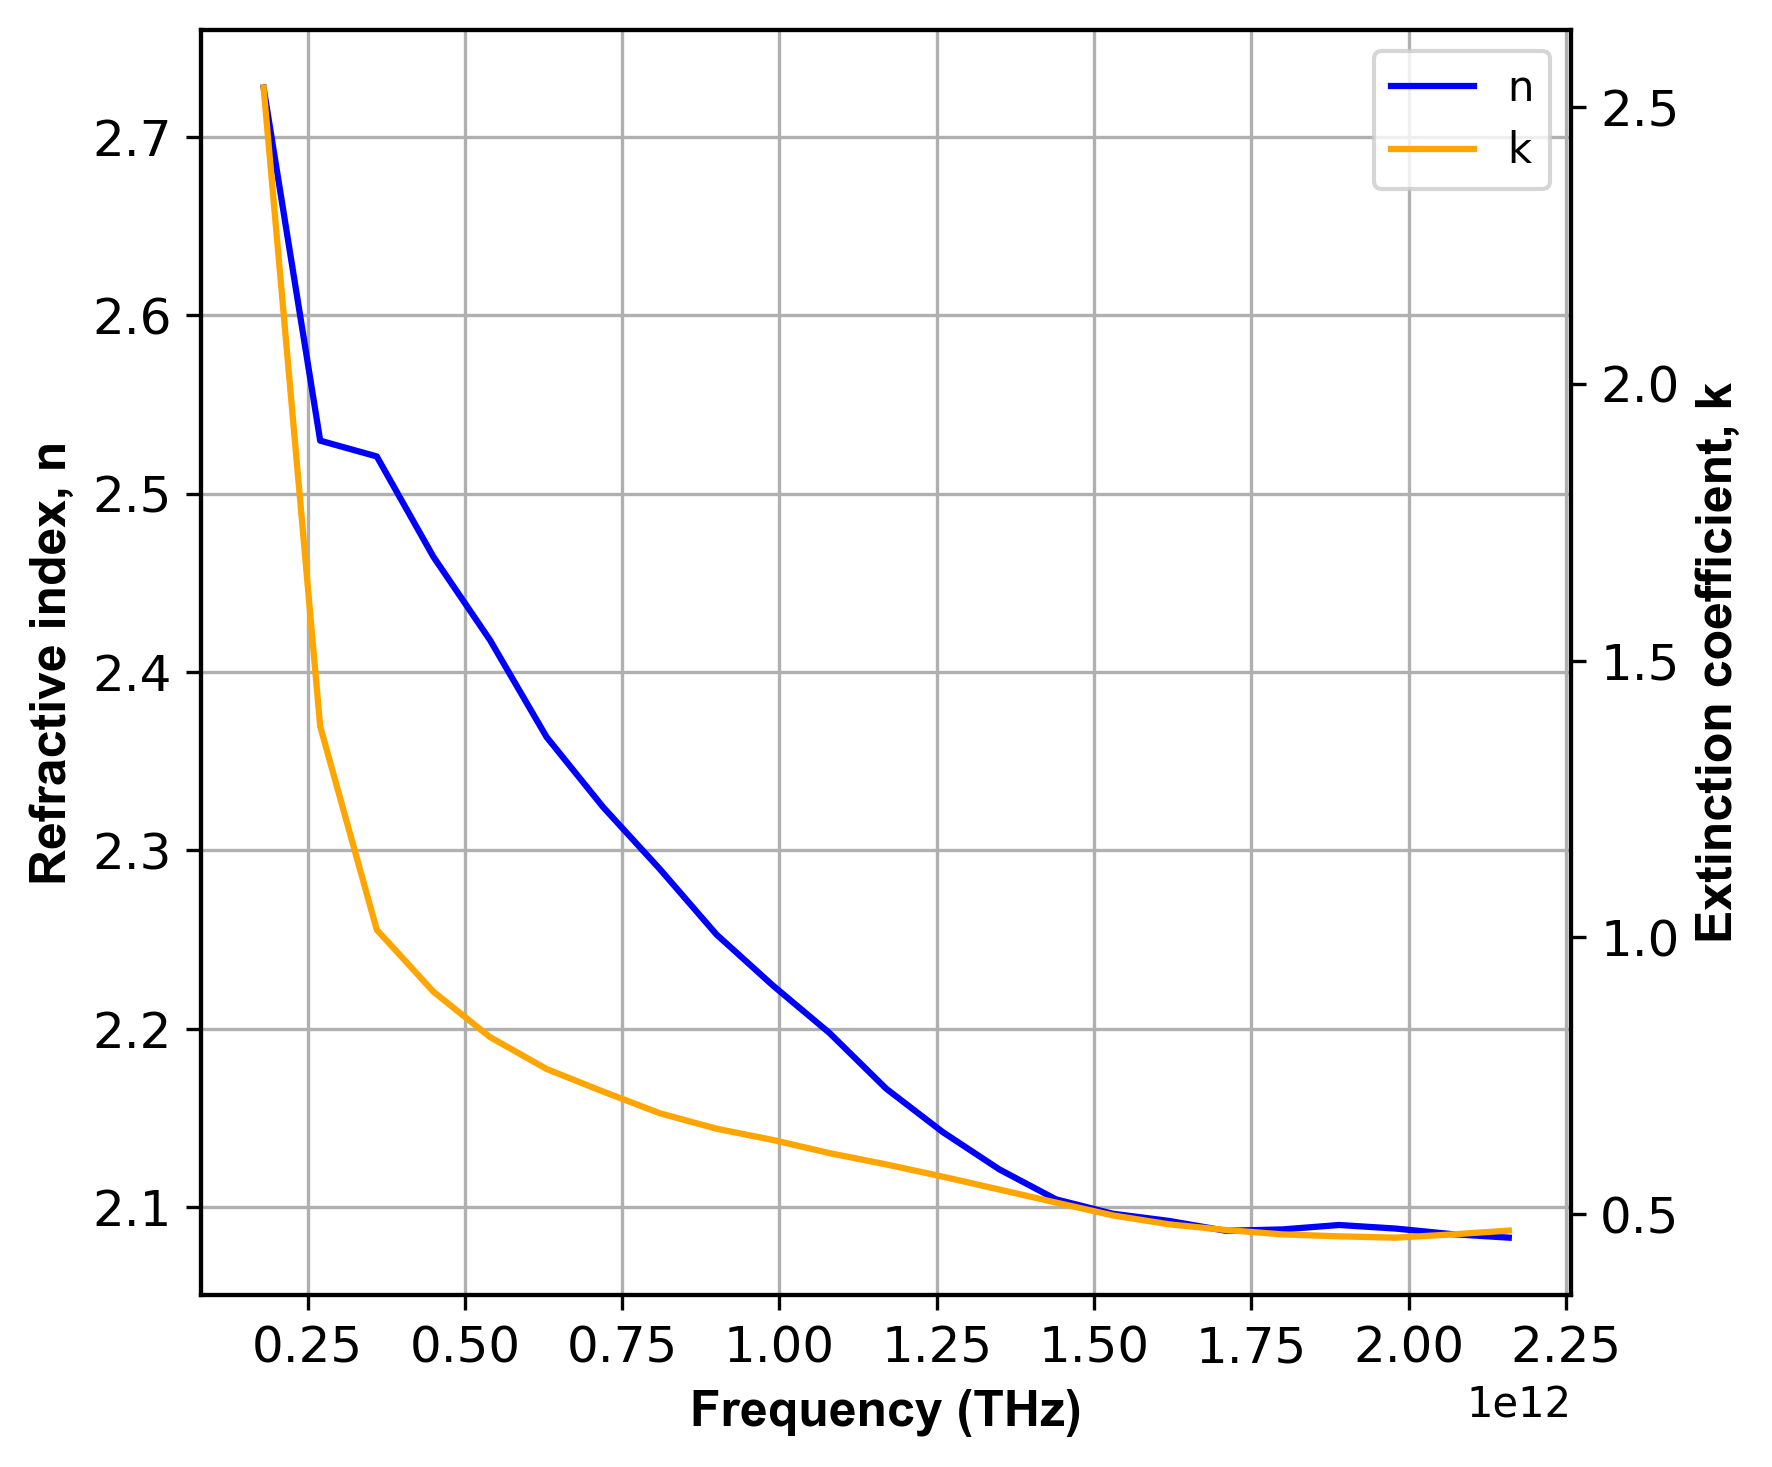
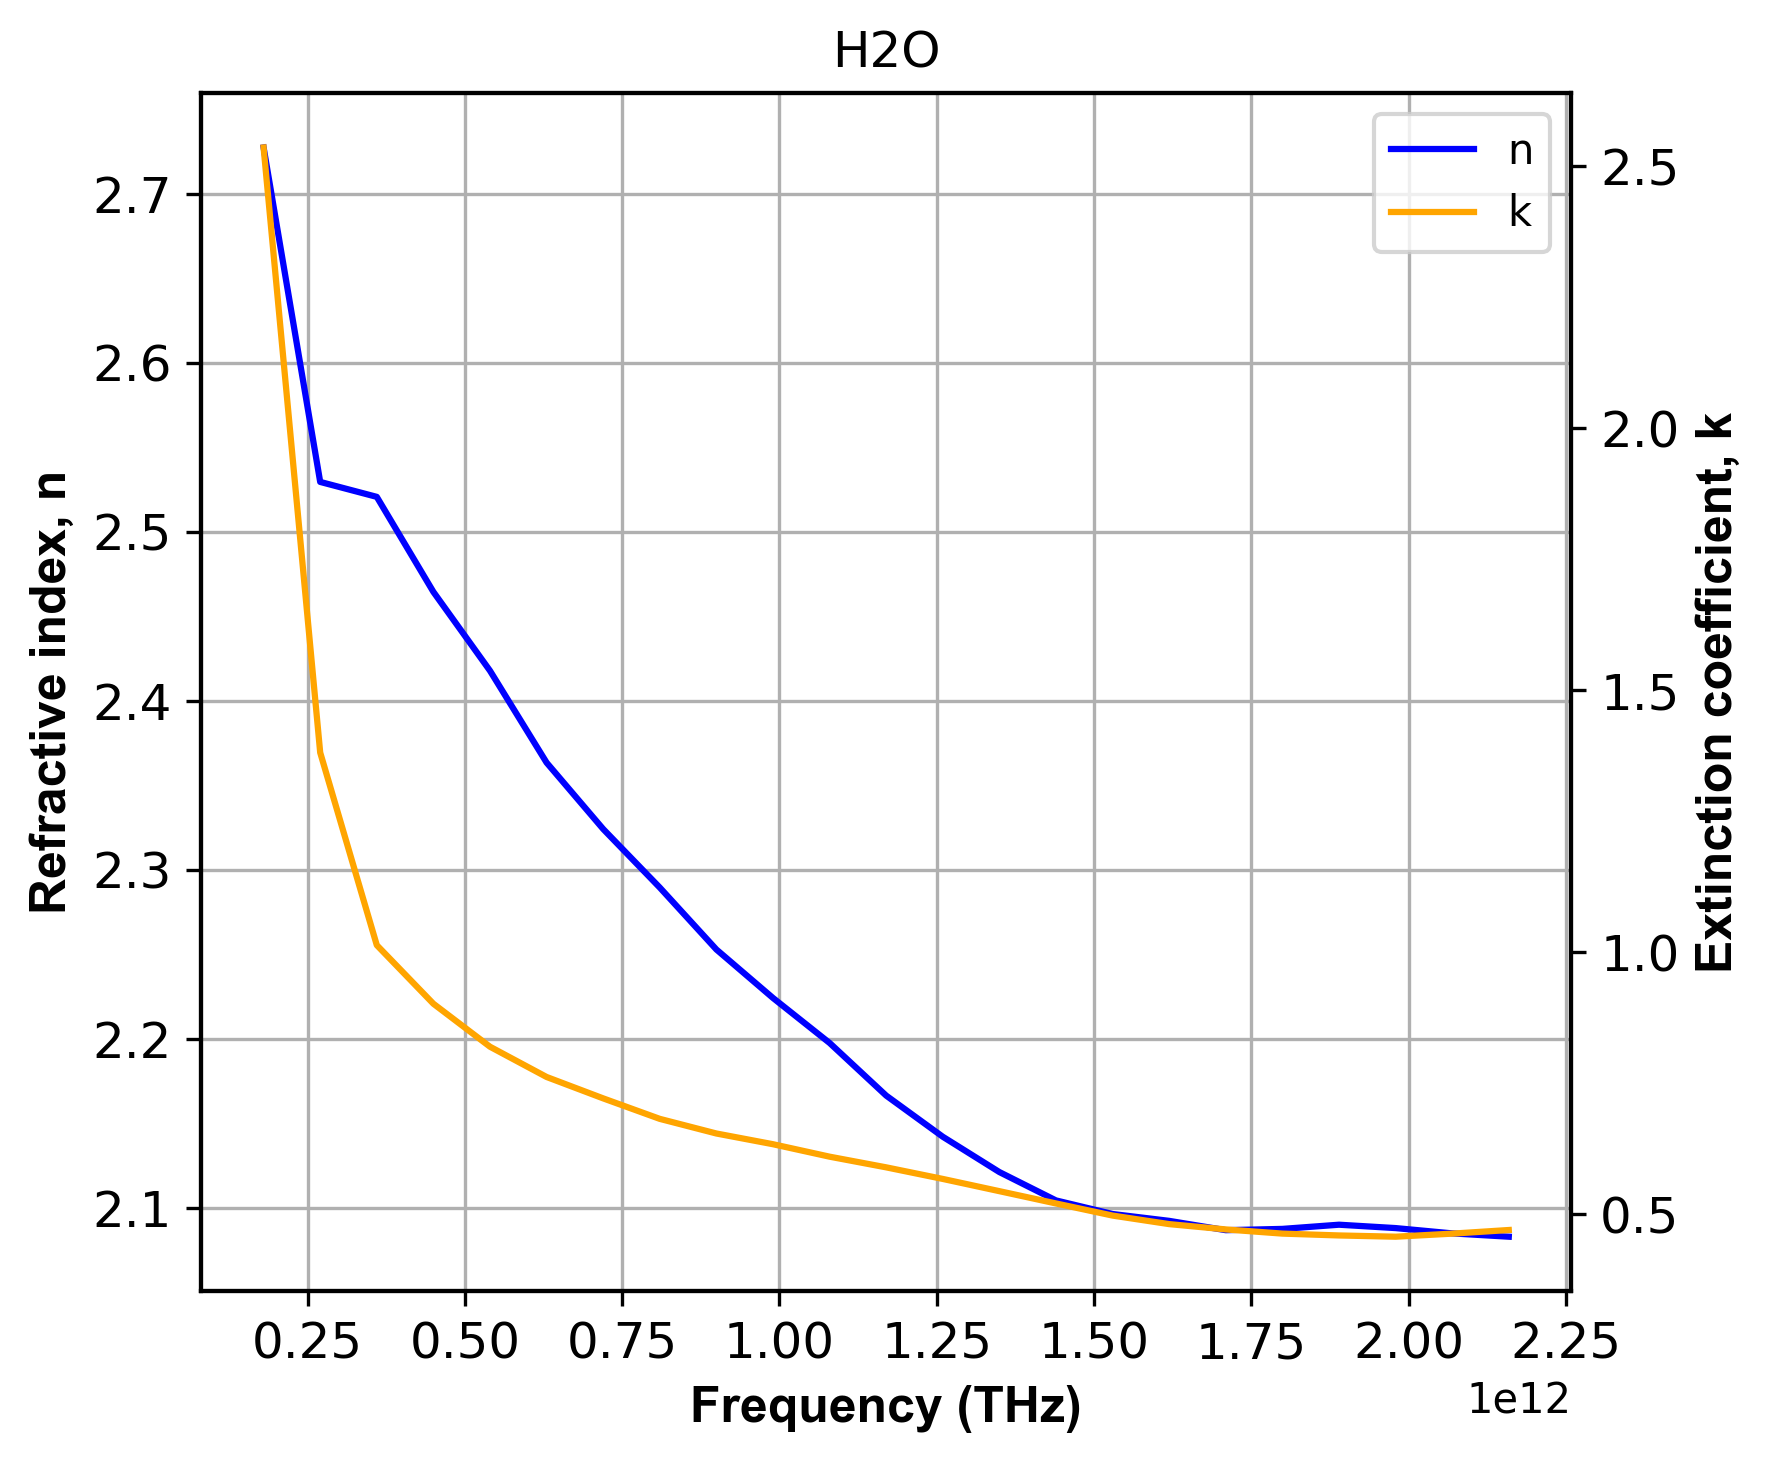
add results

diff --git a/main.py b/main.py
@@ -1,3 +1,4 @@
+
 import os
 import json
 import numpy as np
@@ -10,7 +11,7 @@ from scipy import optimize
 import os
 import warnings
 import tqdm
-
+import multiprocessing
 def time2freq(t_ref:npt.NDArray,
               E_ref:npt.NDArray,
               t_sam:npt.NDArray,
@@ -36,17 +37,19 @@ def time2freq(t_ref:npt.NDArray,
 
     # Plot time-domain signals
     plt.figure()
+    plt.title("")
     plt.plot(t_ref, E_ref, linewidth=3, label='E_Reference')
     plt.plot(t_sam, E_sam, linewidth=3, label='E_Sample')
     plt.legend(prop={'weight':'bold', 'family':'Cambria'})
     plt.grid(True)
-    # plt.tight_layout()
     # plt.show()
     plt.xlabel('Time (sec)', fontsize=16, fontweight='bold', fontname='Cambria')
     plt.ylabel('Electric field intensity (a.u.)', fontsize=16, fontweight='bold', fontname='Cambria')
     plt.xticks(fontsize=12, fontweight='bold', fontname='Cambria')
     plt.yticks(fontsize=12, fontweight='bold', fontname='Cambria')
     plt.legend()
+    plt.tight_layout()
+    plt.savefig("input.png")
 
 
     # Common time grid
@@ -128,14 +131,15 @@ def time2freq(t_ref:npt.NDArray,
     plt.yticks(fontsize=12, fontweight='bold', fontname='Cambria')
     plt.legend()
     plt.grid(True)
+    plt.savefig("fft.png")
 
-    # Plot phase difference
-    plt.figure()
-    plt.plot(f * 1e-12, delta_phi, 'k', linewidth=1.5)
-    plt.xlabel('Frequency (THz)')
-    plt.ylabel('Phase Difference (rad)')
-    plt.title('Corrected Phase Difference')
-    plt.grid(True)
+    # # Plot phase difference
+    # plt.figure()
+    # plt.plot(f * 1e-12, delta_phi, 'k', linewidth=1.5)
+    # plt.xlabel('Frequency (THz)')
+    # plt.ylabel('Phase Difference (rad)')
+    # plt.title('Corrected Phase Difference')
+    # plt.grid(True)
 
     # Save data
     c = 299792458  # speed of light (m/s)
@@ -266,6 +270,7 @@ def MTMM(d:npt.NDArray,
 
 
 class Solver(DifferentialEvolutionSolver):
+   progress_bar=False
    def solve(self):
         """
         Runs the DifferentialEvolutionSolver.
@@ -306,8 +311,7 @@ class Solver(DifferentialEvolutionSolver):
             self._promote_lowest_energy()
 
         # do the optimization.
-        progres_bar=hasattr(self,'progres_bar') and self.progres_bar
-        with tqdm.tqdm(total=self.maxiter, unit="it",disable=not progres_bar) as pbar:
+        with tqdm.tqdm(total=self.maxiter, unit="it",disable=not self.progress_bar) as p_bar:
             for nit in range(1, self.maxiter + 1):
                 # evolve the population by a generation
                 try:
@@ -326,9 +330,9 @@ class Solver(DifferentialEvolutionSolver):
                         f" {self.population_energies[0]}",
                         f"average {np.average(self.population_energies)}"
                         )
-                if progres_bar:
-                    pbar.update(1)
-                    pbar.set_postfix({'f(x)':f'{self.population_energies[0]:.3e}','average':f'{np.average(self.population_energies):.3e}'})
+                if self.progress_bar:
+                    p_bar.update(1)
+                    p_bar.set_postfix({'f(x)':f'{self.population_energies[0]:.3e}','average':f'{np.average(self.population_energies):.3e}'})
                 if self.callback:
                     c = self.tol / (self.convergence + _differentialevolution._MACHEPS)
                     res = self._result(nit=nit, message="in progress")
@@ -417,7 +421,7 @@ class Solver(DifferentialEvolutionSolver):
 def differential_evolution(func, bounds, args=(), strategy='best1bin',
                            maxiter=1000, popsize=15, tol=0.01,
                            mutation=(0.5, 1), recombination=0.7, seed=None,
-                           callback=None, disp=False,progres_bar:bool=False, polish=True,
+                           callback=None, disp=False,progress_bar:bool=False, polish=True,
                            init='latinhypercube', atol:float=.0, updating='immediate',
                            workers=1, constraints=(), x0=None, *,
                            integrality=None, vectorized=False):
@@ -430,20 +434,25 @@ def differential_evolution(func, bounds, args=(), strategy='best1bin',
                                      recombination=recombination,
                                      rng=rng, polish=polish,
                                      callback=callback,
-                                     disp=disp, init=init, atol=atol,
+                                     disp=disp, init=init, atol=atol, # type: ignore
                                      updating=updating,
                                      workers=workers,
                                      constraints=constraints,
                                      x0=x0,
                                      integrality=integrality,
                                      vectorized=vectorized) as solver:
-        solver.progres_bar=progres_bar
+        solver.progress_bar=progress_bar
         ret = solver.solve()
 
     return ret
 
 
-def main(sample_name:str,pop_size:int = 2,maxit:int = 1000,tolerance:float=0.01,abs_tolerance:float=0):
+def main(sample_name:str,
+         pop_size:int = 2,
+         maxit:int = 1000,
+         workers:int=-1,
+         tolerance:float=0.01,
+         abs_tolerance:float=0):
     # === Structural Info ===
     reference:npt.NDArray[np.floating] = np.loadtxt(rf'Data/{sample_name}_Reference.txt')
     sample:npt.NDArray[np.floating]  = np.loadtxt(rf'Data/{sample_name}_Sample.txt')
@@ -475,7 +484,7 @@ def main(sample_name:str,pop_size:int = 2,maxit:int = 1000,tolerance:float=0.01,
     delta_phi:npt.NDArray[np.floating] = tmp['delta_phi'].flatten()
     dtpeaks:float   = tmp['dtpeaks'].flatten()[0]
     dT:float        = tmp['dT'].flatten()[0]
-    lambda0:npt.NDArray[np.floating]   = tmp['lambda0']
+    lambda0:npt.NDArray[np.floating]   = tmp['lambda0'].flatten()
     l:int = lambda0.size
     nn0:float = 1 + c * dtpeaks / (t_smpl0 * 1e-9)
     neff = nk.copy()
@@ -485,42 +494,42 @@ def main(sample_name:str,pop_size:int = 2,maxit:int = 1000,tolerance:float=0.01,
     ph = np.arange(6)
     delta_phi_values = 2 * np.pi * np.floor((ph + 1) / 2) * (-1) ** ph
 
-    n_anltic_list:list[npt.NDArray[np.complexfloating]] = []
-    k_anltic_list:list[npt.NDArray[np.complexfloating]] = []
+    n_analytic_list:list[npt.NDArray[np.complexfloating]] = []
+    k_analytic_list:list[npt.NDArray[np.complexfloating]] = []
 
     for delta_add in delta_phi_values:
         delta_add:float
         delta_phi2 = delta_phi + delta_add
-        n_anlt = (nr + c * delta_phi2 / (2 * np.pi * f * t_smpl0 * 1e-9)).astype(complex)
-        constnt = (4 * n_anlt * nr) / ((np.abs(EsovEr) * (n_anlt + nr)**2))
-        k_anlt = (c / (2 * np.pi * f * t_smpl0 * 1e-9)) * np.log(constnt.astype(complex))
-        n_anltic_list.append(n_anlt)
-        k_anltic_list.append(k_anlt)
+        n_analytic = (nr + c * delta_phi2 / (2 * np.pi * f * t_smpl0 * 1e-9)).astype(complex)
+        constant = (4 * n_analytic * nr) / ((np.abs(EsovEr) * (n_analytic + nr)**2))
+        k_analytic = (c / (2 * np.pi * f * t_smpl0 * 1e-9)) * np.log(constant.astype(complex))
+        n_analytic_list.append(n_analytic)
+        k_analytic_list.append(k_analytic)
 
     # scipy.io.savemat(r'Test.mat', {
     #     **mat,
-    #     'n_anltic': np.array(n_anltic),
-    #     'k_anltic': np.array(k_anltic)
+    #     'n_analytic': np.array(n_analytic),
+    #     'k_analytic': np.array(k_analytic)
     # })
 
 
-    n_anltic = np.array(n_anltic_list)
-    k_anltic = np.array(k_anltic_list)
+    n_analytic = np.array(n_analytic_list)
+    k_analytic = np.array(k_analytic_list)
 
-    nhalf:npt.NDArray[np.complexfloating] = np.array([(n_anltic[0] + n_anltic[1]) / 2,
-            (n_anltic[0] + n_anltic[2]) / 2])
+    n_half:npt.NDArray[np.complexfloating] = np.array([(n_analytic[0] + n_analytic[1]) / 2,
+            (n_analytic[0] + n_analytic[2]) / 2])
     
     lb:npt.NDArray[np.floating] = np.concatenate([
-        np.min(np.real(nhalf),axis=0),                                # scalar → 1D
-        -2 * np.max(np.abs(k_anltic)) * np.ones(l),              # already 1D
+        np.min(np.real(n_half),axis=0),                                # scalar → 1D
+        -2 * np.max(np.abs(k_analytic)) * np.ones(l),              # already 1D
         [t_smpl0]                                                 # scalar → 1D
     ]).flatten()
     ub:npt.NDArray[np.floating] = np.concatenate([
-        np.max(np.real(nhalf),axis=0),                                # scalar → 1D
+        np.max(np.real(n_half),axis=0),                                # scalar → 1D
         np.zeros(l),              # already 1D
         [t_smpl0]                                                 # scalar → 1D
     ]).flatten()
-    initial_pop:npt.NDArray[np.floating] = np.concatenate([np.real(n_anltic[0]), np.real(-k_anltic[0]), [t_smpl0]])
+    initial_pop:npt.NDArray[np.floating] = np.concatenate([np.real(n_analytic[0]), np.real(-k_analytic[0]), [t_smpl0]])
     np.clip(initial_pop,lb,ub,initial_pop)
     bounds = list(zip(lb, ub))
     args=(
@@ -541,21 +550,22 @@ def main(sample_name:str,pop_size:int = 2,maxit:int = 1000,tolerance:float=0.01,
         atol=abs_tolerance,
         polish=False,
         disp=False,
-        progres_bar=True,
-        workers=-1,
-        updating='deferred'
+        progress_bar=True,
+        workers=workers,
+        updating='deferred',
     )
     print(result.message)
     d0_opt = result.x
     error=result.fun
     n=d0_opt[:l]
     k=-d0_opt[l:2*l]
-    # Plotting the real part (n_anltic)
+    # Plotting the real part (n_analytic)
     if not os.path.exists('Results'):
         os.mkdir('Results')
     scipy.io.savemat(f'Results/{sample_name}_result.mat',{'n':n+1j*k,'f':f,'error':error})
 
     fig, ax = plt.subplots(figsize=(6, 5))
+    plt.title(sample_name)
 
     ax.plot(f, n,color='blue', label="n")
     ax.set_xlabel('Frequency (THz)', fontsize=12, fontweight='bold', fontname='Arial')
@@ -583,8 +593,10 @@ def main(sample_name:str,pop_size:int = 2,maxit:int = 1000,tolerance:float=0.01,
 
 
 if __name__ == '__main__':
-    main(sample_name='H2O',
+    # multiprocessing.set_start_method("spawn")
+    main(sample_name='SiO2',
         pop_size=1,
-        maxit=2000,
-        tolerance=1e-12,
-        abs_tolerance=0.0)
+        maxit=3000,
+        tolerance=1e-20,
+        abs_tolerance=0.0,
+        workers=-1)

diff --git a/readme.md b/readme.md
@@ -35,6 +35,8 @@ For higher accuracy (with increased runtime) or faster execution (with potential
 
 - Tolerance and abs_Tolerance - The algorithm stops if the variation in population energies (standard deviation) is small enough, specifically when it’s less than or equal to $abs\_tolerance + tolerance * |mean\ energy|$
 
+- workers - how many threads are being used by optimizer (-1 for all threads)
+
 You can also add your own data to the Data folder if needed. To do this:
 1. Create a JSON file similar to the existing ones. You can add or remove layers by editing the thickness and refractive index values as needed.
 2. Include two time-domain data files (as .txt files):
